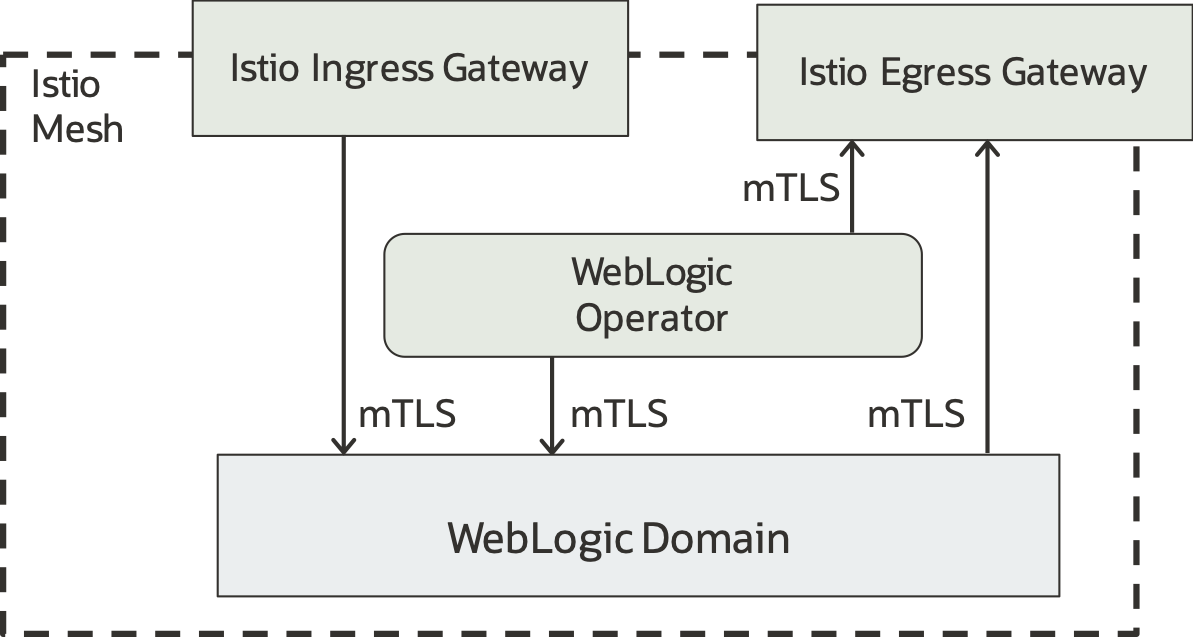
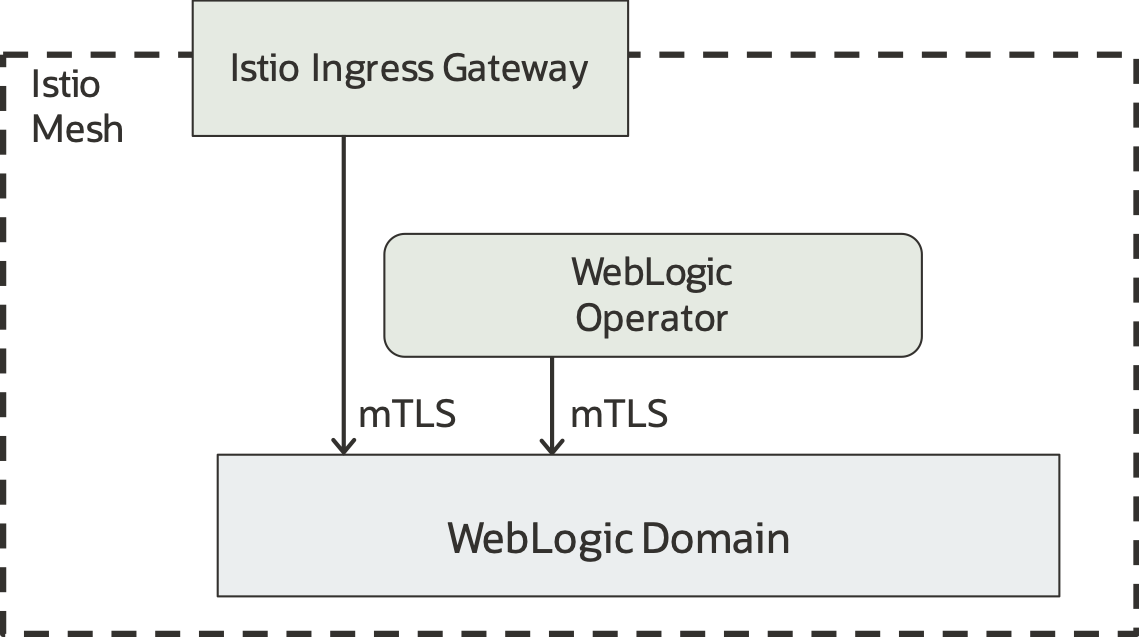
implement further review comments

diff --git a/content/en/docs/applications/workloads/weblogic/_index.md b/content/en/docs/applications/workloads/weblogic/_index.md
@@ -7,7 +7,7 @@ draft: true
 
 ## WebLogic Kubernetes Operator
 
-WebLogic server platform is a widely used enterprise application server for managing Java Enterprise Edition ("JEE") based applications and is [certified](https://blogs.oracle.com/weblogicserver/weblogic-server-certification-on-kubernetes) to run on Kubernetes using the [WebLogic Kubernetes Operator](https://github.com/oracle/weblogic-kubernetes-operator). WebLogic Kubernetes Operator manages the WebLogic Domain life cycle in a Verrazzano. WebLogic Domain CRD specifies configuration of a WebLogic Domain. The Operator watches WebLogic Domain CR and reconciles WebLogic Domain by creating, updating, and deleting Kubernetes resources (Pods, etc.) as needed. Each pod is a WebLogic Domain server (administration or managed).
+WebLogic server platform is a widely used enterprise application server for managing Java Enterprise Edition ("JEE") based applications and is [certified](https://blogs.oracle.com/weblogicserver/weblogic-server-certification-on-kubernetes) to run on Kubernetes using the [WebLogic Kubernetes Operator](https://github.com/oracle/weblogic-kubernetes-operator). WebLogic Kubernetes Operator manages the WebLogic Domain life cycle in a Verrazzano. WebLogic Domain CRD specifies configuration of a WebLogic Domain. The Operator watches WebLogic Domain CR and reconciles WebLogic Domain by creating, updating, and deleting Kubernetes resources (Pods, services and so on) as needed. Each pod is a WebLogic Domain server (administration or managed).
 
 <figure>
   <img src="/docs/images/wls-op-action.png" style="display:block;margin-left:auto;margin-right:auto;width:70%" alt="WebLogic Kubernetes Operator"/>
@@ -75,9 +75,9 @@ Verrazzano Application Operator watches the `VerrazzanoWebLogicWorkload` CR and 
   <figcaption style="text-align:center">Verrazzano Application Operator</figcaption>
 <figure>
 
-## WebLogic Domain lifecycle
+## WebLogic Domain life ycle
 
-Following are the different lifecyle stages of a WebLogic Domain.
+Following are the different life cycle stages of a WebLogic Domain.
 
 1. Create WebLogic Domain
 - Application containing WebLogic component is created
@@ -94,8 +94,8 @@ Following are the different lifecyle stages of a WebLogic Domain.
 WebLogic Domain scale-in and scale-out operations can be performed by modifying the OAM component replicas count. WebLogic Domain can be deleted by deleting the OAM application or removing component from application.
 
 <figure>
-  <img src="/docs/images/wls-domain-scale.png" style="display:block;margin-left:auto;margin-right:auto;width:70%" alt="WebLogic Domain lifecycle"/>
-  <figcaption style="text-align:center">WebLogic Domain lifecycle</figcaption>
+  <img src="/docs/images/wls-domain-scale.png" style="display:block;margin-left:auto;margin-right:auto;width:70%" alt="WebLogic Domain life cycle"/>
+  <figcaption style="text-align:center">WebLogic Domain life cycle</figcaption>
 <figure>
 
 ## Istio Integration
@@ -107,7 +107,7 @@ Verrazzano creates all WebLogic Domain pods in istio-mesh and all  WebLogic netw
   <figcaption style="text-align:center">WebLogic Domain mTLS</figcaption>
 <figure>
 <br/>
-The Envoy proxy sidecar exists in front of workloads for each service providing security, load balancing, metrics, etc. Traffic in and out of the pod goes through the proxy. 
+The Envoy proxy sidecar exists in front of workloads for each service providing security, load balancing, metrics and so on. Traffic in and out of the pod goes through the proxy. 
 
 <figure>
   <img src="/docs/images/wls-istio-mesh.png" style="display:block;margin-left:auto;margin-right:auto;width:70%" alt="WebLogic Domain in Istio-Mesh"/>
@@ -130,7 +130,7 @@ items:
 
 ## WebLogic Domain - Istio Mesh Ingress and Egress
 
-Verrazzano installer creates two types of gateway services - one for ingress and other for egress, depending on the options selected for the installation. Ingress gateway is `LoadBalancer` service type and TLS is terminated at Istio Ingress Gateway. Ingress to WebLogic Domain is optional and `IngressTrait` can be used to enable that. Egress to endpoints outside the mesh go through Istio Egress Gateway. WebLogic Kubernetes Operator also communicates with WebLogic Domain servers over mTLS and uses Egress gateway used to access mesh external endpoints.
+Verrazzano installer creates the Ingress Gateway Service. Ingress gateway is `LoadBalancer` service type and TLS is terminated at Istio Ingress Gateway. Ingress to WebLogic Domain is optional and `IngressTrait` can be used to enable that.
 
 <figure>
   <img src="/docs/images/wls-istio-ing-eg.png" style="display:block;margin-left:auto;margin-right:auto;width:70%" alt="Istio Mesh Ingress and Egress"/>
@@ -139,7 +139,7 @@ Verrazzano installer creates two types of gateway services - one for ingress and
 
 ## Istio Ingress and Routing – Single WebLogic Domain
 
-Istio Gateway resource describes a proxy providing ingress into the Kubernetes cluster and the istio-mesh. Gateway specifies the host, port and protocol etc. and is bound to a gateway service (LoadBalancer / NodePort). VirtualService specifies routes to services, load balancing.
+Istio Gateway resource describes a proxy providing ingress into the Kubernetes cluster and the istio-mesh. Gateway specifies the host, port,protocol and so on and is bound to a gateway service (LoadBalancer / NodePort). VirtualService specifies routes to services, load balancing.
 
 <figure>
   <img src="/docs/images/wls-istio-gateway.png" style="display:block;margin-left:auto;margin-right:auto;width:70%" alt="Istio: Single WebLogic Domain"/>
